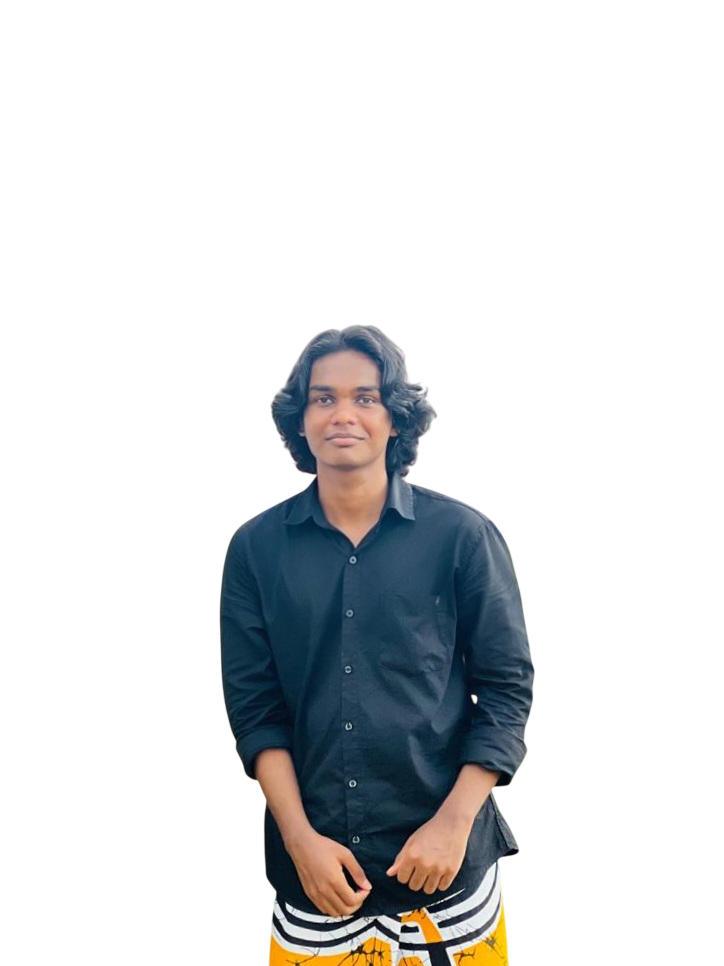
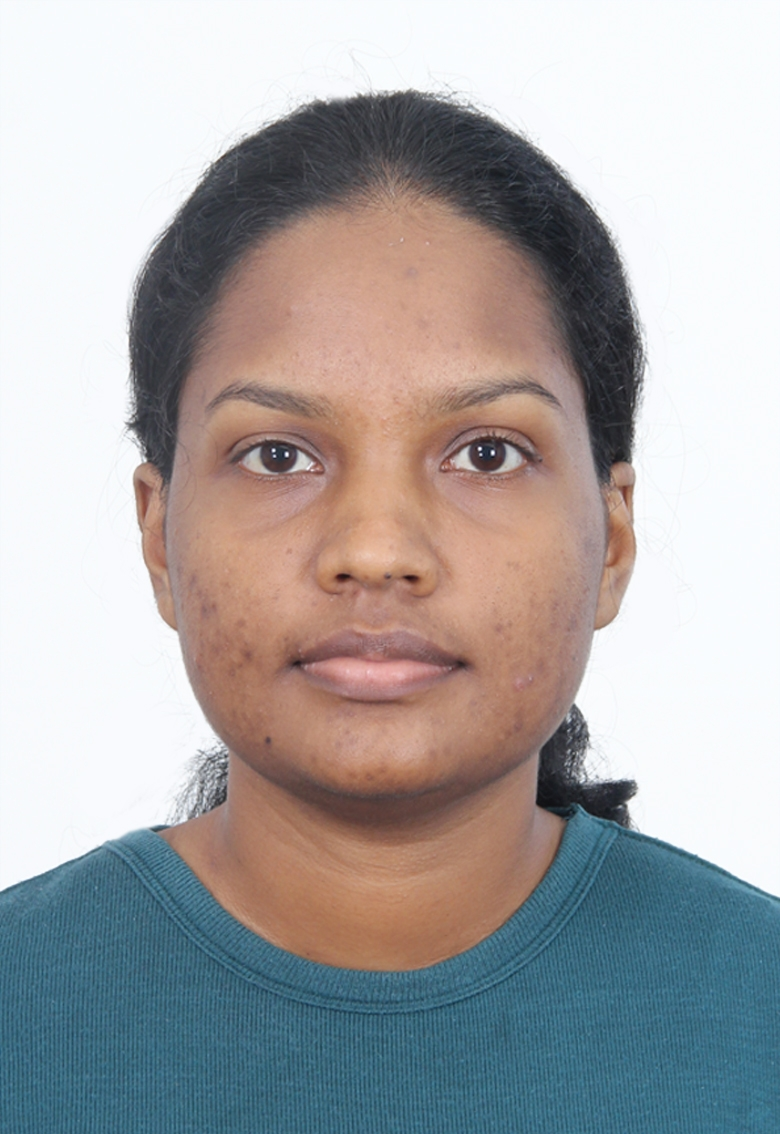
Update official passport photo to user's updated navini-passport.jpeg

diff --git a/src/components/StudentProfileCard.tsx b/src/components/StudentProfileCard.tsx
@@ -23,7 +23,7 @@ export const StudentProfileCard: React.FC<StudentProfileCardProps> = ({
   const [syncToast, setSyncToast] = useState<string | null>(null);
 
   // Canonical passport photo stored directly in the GitHub repository
-  const defaultPassportPhoto = `${import.meta.env.BASE_URL}navini-passport.png`;
+  const defaultPassportPhoto = `${import.meta.env.BASE_URL}navini-passport.jpeg`;
   const activePhoto = passportInfo.photoUrl || defaultPassportPhoto;
 
   useEffect(() => {

diff --git a/src/App.tsx b/src/App.tsx
@@ -98,7 +98,7 @@ export function App() {
     return {
       passportNumber: 'N10385921',
       expiryDate: '2034-08-15',
-      photoUrl: `${import.meta.env.BASE_URL}navini-passport.png`,
+      photoUrl: `${import.meta.env.BASE_URL}navini-passport.jpeg`,
     };
   });
 
